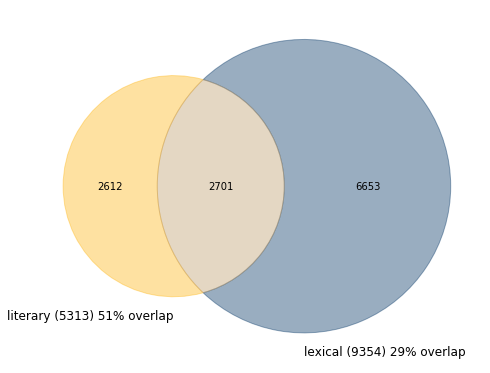
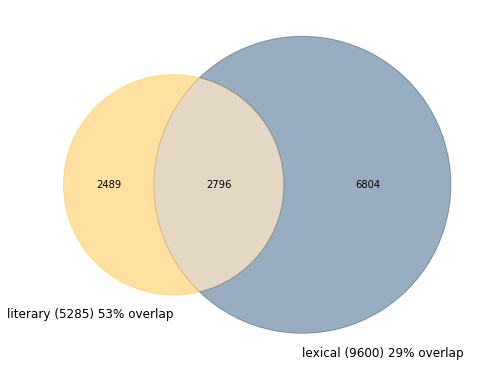
more work on Chapt 3.2

diff --git a/3_Vocabularies/3_Lexical_and_Literary_Vocabularies.md b/3_Vocabularies/3_Lexical_and_Literary_Vocabularies.md
@@ -22,7 +22,7 @@ From the two sets, which we call `etcsl_words_s` and `lexical_words_s` we elimin
 
 ![venn diagram 1](viz/venn_1.png)
 
-The Old Babylonian lexical corpus currently has 4,165 distinct lemmas, of which 2,033 (or almost half) are shared with the literary corpus. The vocabulary of the literary corpus is only slightly larger with 4,345 distinct lemmas.
+The Old Babylonian lexical corpus currently has 4,165 distinct lemmas, of which 2,033 (or almost half) are shared with the literary corpus. The vocabulary of the literary corpus is only slightly larger with 4,345 distinct lemmas. The number of items in the literary set should be stable, because it is based on the archival set of [ETCSL][] files. The number on the right (set of lexical lemmas), however, may vary, because it is based on [DCCLT][] and its subcorpora, and those are still in the process of being edited.
 
 For a number of reasons, this is a very rough estimate and perhaps not exactly what we were looking for. A lexical entry like **udu diŋir-e gu₇-a**  (sheep eaten by a god) consists of three very common lemmas (**udu[sheep]N**, **diŋir[deity]N**, **gu[eat]V/t**). This lexical entry, therefore, will result in three matches, three correspondences between the lexical and literary vocabulary. But what about the lexical *entry*? Does the nominal phrase **udu diŋir-e-gu₇-a** or, more precisely, the sequence of the lemmas **udu[sheep]N, diŋir[deity]N, gu[eat]V/t**) ever appear in a literary text? 
 
@@ -126,37 +126,54 @@ Because each column represents a word in the lexical corpus, there are many colu
 
 The main difference between the Venn diagram and the DTM is that the DTM shows in which compositions the shared words are attested. By computing the sum of a row we get an integer that represents the number of lexically attested lemmas in a particular composition, and this gives us a (numerical) measuring for comparing between compositions. Not surprisingly, longer compositions, such as the [Gudea Cylinders](http://etcsl.orinst.ox.ac.uk/cgi-bin/etcsl.cgi?text=c.2.1.7&display=Crit&charenc=gcirc#) (1363 lines), or the Ninurta narrative [Lugale](http://etcsl.orinst.ox.ac.uk/cgi-bin/etcsl.cgi?text=c.1.6.2&display=Crit&charenc=gcirc#) (726 lines) have more such matches than shorter ones. In fact, the very short ones (some consist of only a few words) are not very useful for the comparison - we will restrict the analysis to texts that are at least 200 words (lemmas/expressions) long. In addition to text length, other (related) characteristics that we may want to pay attention to are lexical richness (how many unique lemmas/expressions are attested in this composition?) and type-token-ration (TTR), which is defined as the number of unique lemmas (types) divided by the length of the text (number of tokens).  TTR is considered a rather poor measurement for lexical diversity (because it has it strong negative correlation with text length), but for compositions of approximately even length it may give some idea of the creativity vs. repetitiveness of the text.
 
+The table below gives the first ten compositions, sorted by `norm2` (descending). Of the 97 unique lemmas that are attested in Inana E no less than 94 are also attested in the Old Babylonian lexical corpus - a norm2 score of 0.969.
 
-| id_text                                                                                                | text_name                                   |   length |   ttr |   lex_var |   n_matches |   norm1 |   norm2 |
-|--------------------------------------------------------------------------------------------------------|---------------------------------------------|----------|-------|-----------|-------------|---------|---------|
-| [c.4.07.5](http://etcsl.orinst.ox.ac.uk/cgi-bin/etcsl.cgi?text=c.4.07.5&display=Crit&charenc=gcirc#)   | A tigi to Inana (Inana E)                   |      296 | 0.331 |        98 |          89 |   0.301 |   0.908 |
-| [c.5.5.4](http://etcsl.orinst.ox.ac.uk/cgi-bin/etcsl.cgi?text=c.5.5.4&display=Crit&charenc=gcirc#)     | The song of the hoe                         |      443 | 0.517 |       229 |         203 |   0.458 |   0.886 |
-| [c.2.5.6.5](http://etcsl.orinst.ox.ac.uk/cgi-bin/etcsl.cgi?text=c.2.5.6.5&display=Crit&charenc=gcirc#) | An adab to An for Ur-Ninurta (Ur-Ninurta E) |      216 | 0.602 |       130 |         115 |   0.532 |   0.885 |
-| [c.4.13.01](http://etcsl.orinst.ox.ac.uk/cgi-bin/etcsl.cgi?text=c.4.13.01&display=Crit&charenc=gcirc#) | A balbale to Suen (Nanna A)                 |      251 | 0.474 |       119 |         104 |   0.414 |   0.874 |
-| [c.2.8.3.2](http://etcsl.orinst.ox.ac.uk/cgi-bin/etcsl.cgi?text=c.2.8.3.2&display=Crit&charenc=gcirc#) | A prayer for Samsu-iluna (Samsu-iluna B)    |      206 | 0.563 |       116 |         101 |   0.49  |   0.871 |
+| id_text                                                      | text_name                                                    | length | ttr   | lex_var | n_matches | norm1 | norm2 |
+| ------------------------------------------------------------ | ------------------------------------------------------------ | ------ | ----- | ------- | --------- | ----- | ----- |
+| [c.4.07.5](http://etcsl.orinst.ox.ac.uk/cgi-bin/etcsl.cgi?text=c.4.07.5&display=Crit&charenc=gcirc#) | A tigi to Inana (Inana E)                                    | 292    | 0.332 | 97      | 94        | 0.322 | 0.969 |
+| [c.2.3.1](http://etcsl.orinst.ox.ac.uk/cgi-bin/etcsl.cgi?text=c.2.3.1&display=Crit&charenc=gcirc#) | An adab to Bau for Luma (Luma A)                             | 232    | 0.336 | 78      | 75        | 0.323 | 0.962 |
+| [c.4.15.3](http://etcsl.orinst.ox.ac.uk/cgi-bin/etcsl.cgi?text=c.4.15.3&display=Crit&charenc=gcirc#) | A tigi to Nergal (Nergal C)                                  | 213    | 0.451 | 96      | 91        | 0.427 | 0.948 |
+| [c.2.5.4.23](http://etcsl.orinst.ox.ac.uk/cgi-bin/etcsl.cgi?text=c.2.5.4.23&display=Crit&charenc=gcirc#) | A hymn to Nibru and Išme-Dagan (Išme-Dagan W)                | 331    | 0.465 | 154     | 144       | 0.435 | 0.935 |
+| [c.5.2.4](http://etcsl.orinst.ox.ac.uk/cgi-bin/etcsl.cgi?text=c.5.2.4&display=Crit&charenc=gcirc#) | A man and his god                                            | 564    | 0.418 | 236     | 218       | 0.387 | 0.924 |
+| [c.4.13.01](http://etcsl.orinst.ox.ac.uk/cgi-bin/etcsl.cgi?text=c.4.13.01&display=Crit&charenc=gcirc#) | A balbale to Suen (Nanna A)                                  | 245    | 0.478 | 117     | 108       | 0.441 | 0.923 |
+| [c.2.5.6.5](http://etcsl.orinst.ox.ac.uk/cgi-bin/etcsl.cgi?text=c.2.5.6.5&display=Crit&charenc=gcirc#) | An adab to An for Ur-Ninurta (Ur-Ninurta E)                  | 216    | 0.602 | 130     | 120       | 0.556 | 0.923 |
+| [c.4.12.1](http://etcsl.orinst.ox.ac.uk/cgi-bin/etcsl.cgi?text=c.4.12.1&display=Crit&charenc=gcirc#) | A šir-gida to Martu (Martu A)                                | 286    | 0.615 | 176     | 162       | 0.566 | 0.92  |
+| [c.5.1.3](http://etcsl.orinst.ox.ac.uk/cgi-bin/etcsl.cgi?text=c.5.1.3&display=Crit&charenc=gcirc#) | The advice of a supervisor to a younger scribe (E-dub-ba-a C) | 407    | 0.521 | 212     | 195       | 0.479 | 0.92  |
+| [c.2.5.4.11](http://etcsl.orinst.ox.ac.uk/cgi-bin/etcsl.cgi?text=c.2.5.4.11&display=Crit&charenc=gcirc#) | A hymn to Inana for Išme-Dagan (Išme-Dagan K)                | 233    | 0.635 | 148     | 136       | 0.584 | 0.919 |
 
-In the notebook you can manipulate the table to sort it by different columns (ascending or descending) and by displaying a larger or smaller number of rows. The column `norm1` represents the number of matches (with Old Babylonian lexical texts) divided by text length (in lemmas). The column `norm2` represents the number of matches divided by the number of unique lexemes (`lex_var`). The table as presented here has the first five rows, ordered by `norm2` (descending).  Ordering by `norm1` yields a very different output:
+Note that changes in the [DCCLT][] data may change the numbers and the arrangement of the table.
 
-| id_text                                                      | text_name                                      | length | ttr   | lex_var | n_matches | norm1 | norm2 |
-| ------------------------------------------------------------ | ---------------------------------------------- | ------ | ----- | ------- | --------- | ----- | ----- |
-| [c.2.5.6.4](http://etcsl.orinst.ox.ac.uk/cgi-bin/etcsl.cgi?text=c.2.5.6.4&display=Crit&charenc=gcirc#) | An adab to Inana for Ur-Ninurta (Ur-Ninurta D) | 204    | 0.657 | 134     | 114       | 0.559 | 0.851 |
-| [c.2.5.8.1](http://etcsl.orinst.ox.ac.uk/cgi-bin/etcsl.cgi?text=c.2.5.8.1&display=Crit&charenc=gcirc#) | A praise poem of Enlil-bāni (Enlil-bāni A)     | 335    | 0.657 | 220     | 186       | 0.555 | 0.845 |
-| [c.4.19.1](http://etcsl.orinst.ox.ac.uk/cgi-bin/etcsl.cgi?text=c.4.19.1&display=Crit&charenc=gcirc#) | A balbale to Ninŋišzida (Ninŋišzida A)         | 216    | 0.634 | 137     | 116       | 0.537 | 0.847 |
-| [c.2.5.6.2](http://etcsl.orinst.ox.ac.uk/cgi-bin/etcsl.cgi?text=c.2.5.6.2&display=Crit&charenc=gcirc#) | A tigi to Enki for Ur-Ninurta (Ur-Ninurta B)   | 284    | 0.616 | 175     | 151       | 0.532 | 0.863 |
-| [c.2.5.6.5](http://etcsl.orinst.ox.ac.uk/cgi-bin/etcsl.cgi?text=c.2.5.6.5&display=Crit&charenc=gcirc#) | An adab to An for Ur-Ninurta (Ur-Ninurta E)    | 216    | 0.602 | 130     | 115       | 0.532 | 0.885 |
-| [c.2.5.5.1](http://etcsl.orinst.ox.ac.uk/cgi-bin/etcsl.cgi?text=c.2.5.5.1&display=Crit&charenc=gcirc#) | A praise poem of Lipit-Eštar (Lipit-Eštar A)   | 393    | 0.611 | 240     | 206       | 0.524 | 0.858 |
-| [c.2.5.5.2](http://etcsl.orinst.ox.ac.uk/cgi-bin/etcsl.cgi?text=c.2.5.5.2&display=Crit&charenc=gcirc#) | A praise poem of Lipit-Eštar (Lipit-Eštar B)   | 289    | 0.606 | 175     | 149       | 0.516 | 0.851 |
-| [c.2.6.6.5](http://etcsl.orinst.ox.ac.uk/cgi-bin/etcsl.cgi?text=c.2.6.6.5&display=Crit&charenc=gcirc#) | Sîn-iddinam and Iškur (Sîn-iddinam E)          | 234    | 0.641 | 150     | 119       | 0.509 | 0.793 |
-| [c.2.5.4.11](http://etcsl.orinst.ox.ac.uk/cgi-bin/etcsl.cgi?text=c.2.5.4.11&display=Crit&charenc=gcirc#) | A hymn to Inana for Išme-Dagan (Išme-Dagan K)  | 252    | 0.611 | 154     | 126       | 0.5   | 0.818 |
-| [c.2.4.2.01](http://etcsl.orinst.ox.ac.uk/cgi-bin/etcsl.cgi?text=c.2.4.2.01&display=Crit&charenc=gcirc#) | A praise poem of Šulgi (Šulgi A)               | 477    | 0.583 | 278     | 237       | 0.497 | 0.853 |
+The top-ten for `norm2` does not favor typical school compositions. Typical school compositions are found in large numbers of exemplars or have other characteristics that make it likely that they played an important role in literary education in scribal school. Several such groups of texts, labeled the *tetrad*, the *decad* and the *House F Fourteen* have been identified in the past [^3]Of these compositions only [Eduba C](http://etcsl.orinst.ox.ac.uk/cgi-bin/etcsl.cgi?text=c.5.1.3&display=Crit&charenc=gcirc#)  (which belongs to the *House F Fourteen*) appears in our list appears at number 9. 
+
+In the notebook one may manipulate the table to sort it by different columns (ascending or descending) and by displaying a larger or smaller number of rows. The column `norm1` represents the number of matches (with Old Babylonian lexical texts) divided by text length (in lemmas). Ordering by `norm1` yields a very different output:
+
+| id_text                                                      | text_name                                                    | length | ttr   | lex_var | n_matches | norm1 | norm2 |
+| ------------------------------------------------------------ | ------------------------------------------------------------ | ------ | ----- | ------- | --------- | ----- | ----- |
+| [c.2.6.6.5](http://etcsl.orinst.ox.ac.uk/cgi-bin/etcsl.cgi?text=c.2.6.6.5&display=Crit&charenc=gcirc#) | Sîn-iddinam and Iškur (Sîn-iddinam E)                        | 207    | 0.705 | 146     | 130       | 0.628 | 0.89  |
+| [c.2.5.4.09](http://etcsl.orinst.ox.ac.uk/cgi-bin/etcsl.cgi?text=c.2.5.4.09&display=Crit&charenc=gcirc#) | Išme-Dagan and Enlil's chariot: a tigi to Enlil (Išme-Dagan I) | 265    | 0.687 | 182     | 165       | 0.623 | 0.907 |
+| [c.2.5.8.1](http://etcsl.orinst.ox.ac.uk/cgi-bin/etcsl.cgi?text=c.2.5.8.1&display=Crit&charenc=gcirc#) | A praise poem of Enlil-bāni (Enlil-bāni A)                   | 316    | 0.68  | 215     | 197       | 0.623 | 0.916 |
+| [c.6.1.12](http://etcsl.orinst.ox.ac.uk/cgi-bin/etcsl.cgi?text=c.6.1.12&display=Crit&charenc=gcirc#) | Proverbs: collection 12                                      | 202    | 0.663 | 134     | 123       | 0.609 | 0.918 |
+| [c.6.1.26](http://etcsl.orinst.ox.ac.uk/cgi-bin/etcsl.cgi?text=c.6.1.26&display=Crit&charenc=gcirc#) | Proverbs: collection 26                                      | 246    | 0.654 | 161     | 148       | 0.602 | 0.919 |
+| [c.6.1.19](http://etcsl.orinst.ox.ac.uk/cgi-bin/etcsl.cgi?text=c.6.1.19&display=Crit&charenc=gcirc#) | Proverbs: collection 19                                      | 235    | 0.681 | 160     | 141       | 0.6   | 0.881 |
+| [c.6.1.04](http://etcsl.orinst.ox.ac.uk/cgi-bin/etcsl.cgi?text=c.6.1.04&display=Crit&charenc=gcirc#) | Proverbs: collection 4                                       | 252    | 0.687 | 173     | 148       | 0.587 | 0.855 |
+| [c.4.19.1](http://etcsl.orinst.ox.ac.uk/cgi-bin/etcsl.cgi?text=c.4.19.1&display=Crit&charenc=gcirc#) | A balbale to Ninŋišzida (Ninŋišzida A)                       | 208    | 0.649 | 135     | 122       | 0.587 | 0.904 |
+| [c.2.5.4.11](http://etcsl.orinst.ox.ac.uk/cgi-bin/etcsl.cgi?text=c.2.5.4.11&display=Crit&charenc=gcirc#) | A hymn to Inana for Išme-Dagan (Išme-Dagan K)                | 233    | 0.635 | 148     | 136       | 0.584 | 0.919 |
+| [c.4.12.1](http://etcsl.orinst.ox.ac.uk/cgi-bin/etcsl.cgi?text=c.4.12.1&display=Crit&charenc=gcirc#) | A šir-gida to Martu (Martu A)                                | 286    | 0.615 | 176     | 162       | 0.566 | 0.92  |
+
+Here the highest score is for Sîn-iddinam E, which has 130 matches on a text length of 207 - a score of 0.628. 
 
 These ten texts that score highest on lexical matches per lemma include a very large number of hymns to Isin kings, including Ur-Ninurta, Enlil-bani, Lipit-Eštar, Sin-Iddinam, and Išme-Dagan. The list includes some texts that are considered typical school compositions, such as [Enlil-bani A](http://etcsl.orinst.ox.ac.uk/cgi-bin/etcsl.cgi?text=c.2.5.8.1&display=Crit&charenc=gcirc#), [Lipit-Eštar A](http://etcsl.orinst.ox.ac.uk/cgi-bin/etcsl.cgi?text=c.2.5.5.1&display=Crit&charenc=gcirc#), [Lipit-Eštar B](http://etcsl.orinst.ox.ac.uk/cgi-bin/etcsl.cgi?text=c.2.5.5.2&display=Crit&charenc=gcirc#), and [Šulgi A](http://etcsl.orinst.ox.ac.uk/cgi-bin/etcsl.cgi?text=c.2.4.2.01&display=Crit&charenc=gcirc#). 
+
+Although the two "top tens" do not have any composition in common, it seems that hymns to gods and (in particular) to kings score high in both categories. The only narrative text to show in either table is Gilgameš and Aga, with the 10th highest score on`norm2`; proverbs and disputations are absent.
+
+We can look in more detail at the highest scoring text in the `norm2` column to see what is going on.  
 
 
 
 
 [^1]: 	N. Veldhuis, *Religion, Literature, and Scholarship: The Sumerian Composition "Nanše and the Birds"*. Cuneiform Monographs 22. Leiden: Brill 2004.
 [^2]:	N. Veldhuis, *Religion, Literature, and Scholarship: The Sumerian Composition "Nanše and the Birds"*. Cuneiform Monographs 22. Leiden: Brill 2004.
+[^3]:	For tetrad, decad and House F Fourteen, see E. Robson, The tablet House: a scribal school in old Babylonian Nippur, in: *Revue d'Assyriologie* 93 (2001) 39-66, [doi:10.3917/assy.093.0039](https://doi.org/10.3917/assy.093.0039); and Paul Delnero, *The Textual Criticism of Sumerian Literature*, Journal of Cuneiform Studies Supplementary Series 3 (2012); both with further literature.
 
 [ETCSL]: http://etcsl.orinst.ox.ac.uk
 [DCCLT]: http://oracc.org/dcclt
